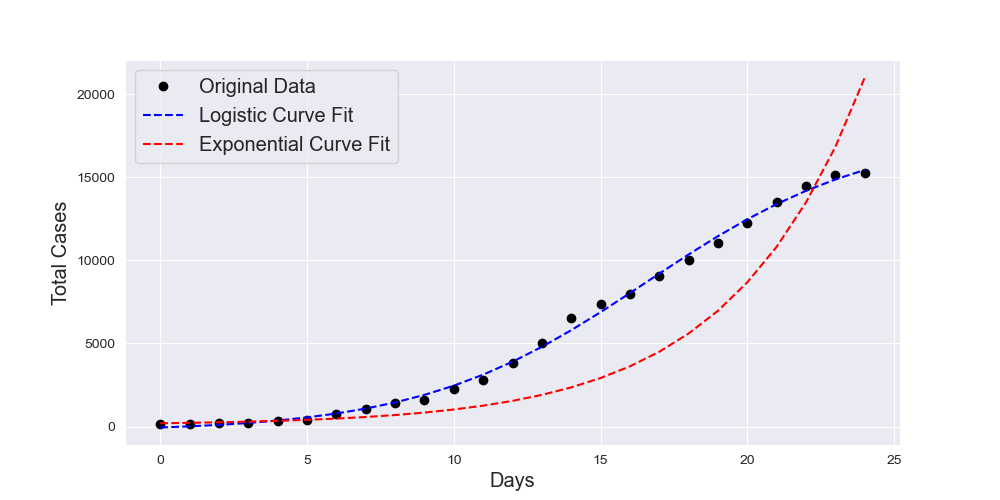
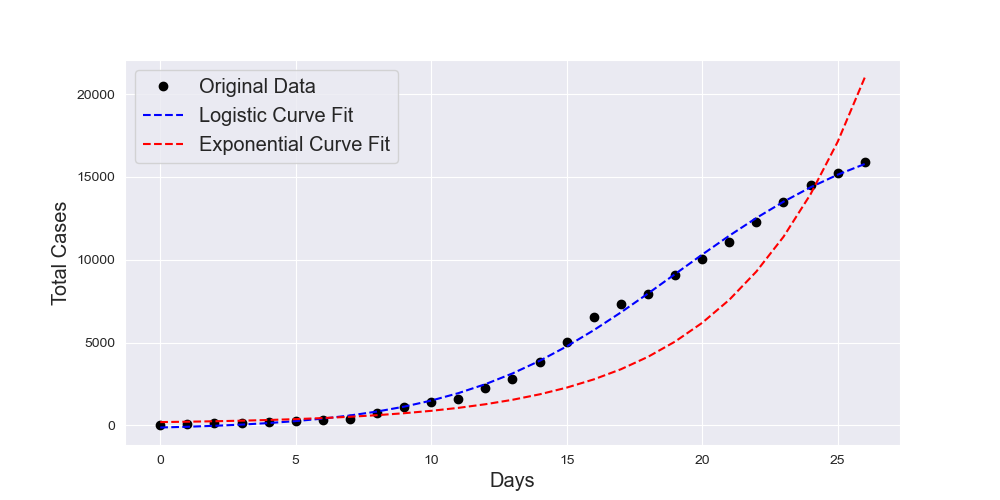
lowered the prevalence to 0.05

diff --git a/creating_report.py b/creating_report.py
@@ -9,7 +9,7 @@ from PIL import Image, ImageDraw
 from scipy.optimize import curve_fit
 
 df = pd.read_csv('https://raw.githubusercontent.com/CSSEGISandData/COVID-19/master/csse_covid_19_data/csse_covid_19_time_series/time_series_covid19_confirmed_global.csv')
-relevance = 0.1
+relevance = 0.05
 R2_limit = 0.5
 
 

diff --git a/docs/README.md b/docs/README.md
@@ -13,7 +13,7 @@ The data for Switzerland are pulled from [daenuprobst repo](https://github.com/d
 
 Original code from https://github.com/aatishb/covid
 
-The starting point of the figure is the first day where the prevalence > 0.1 per 10'000 inhabitants.
+The starting point of the figure is the first day where the prevalence > 0.05 per 10'000 inhabitants.
 
 
 # Switzerland
